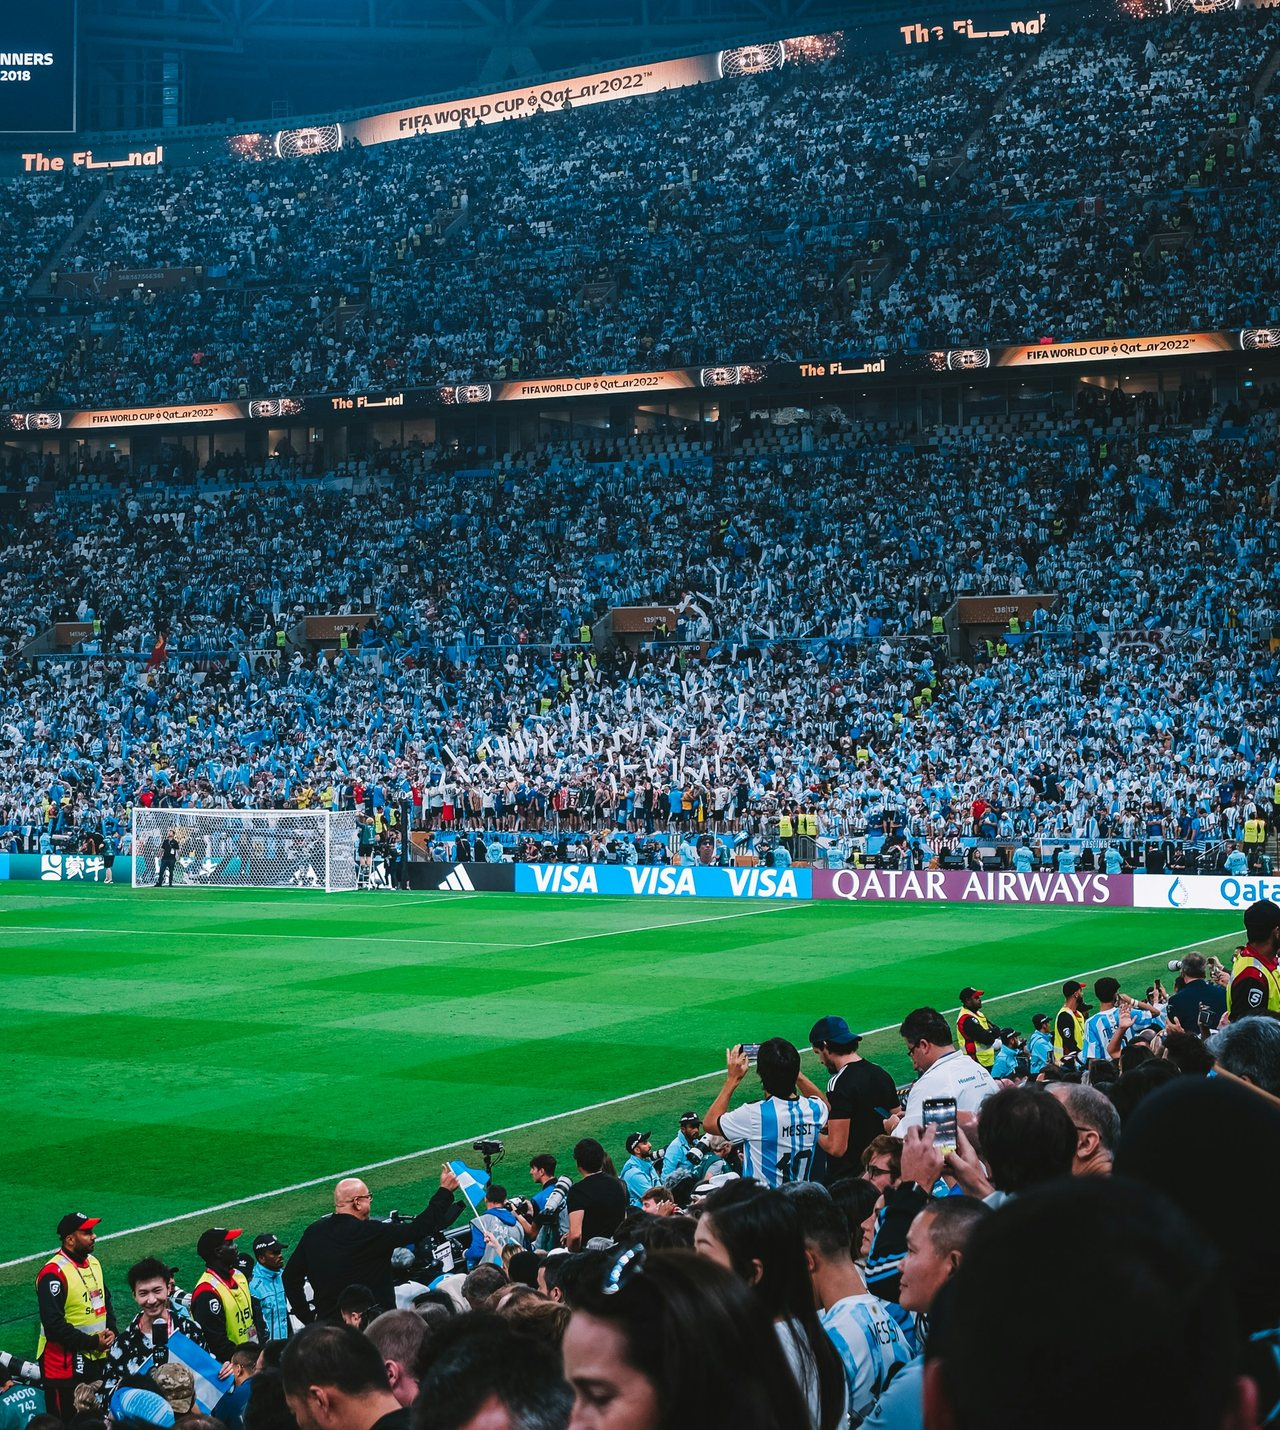
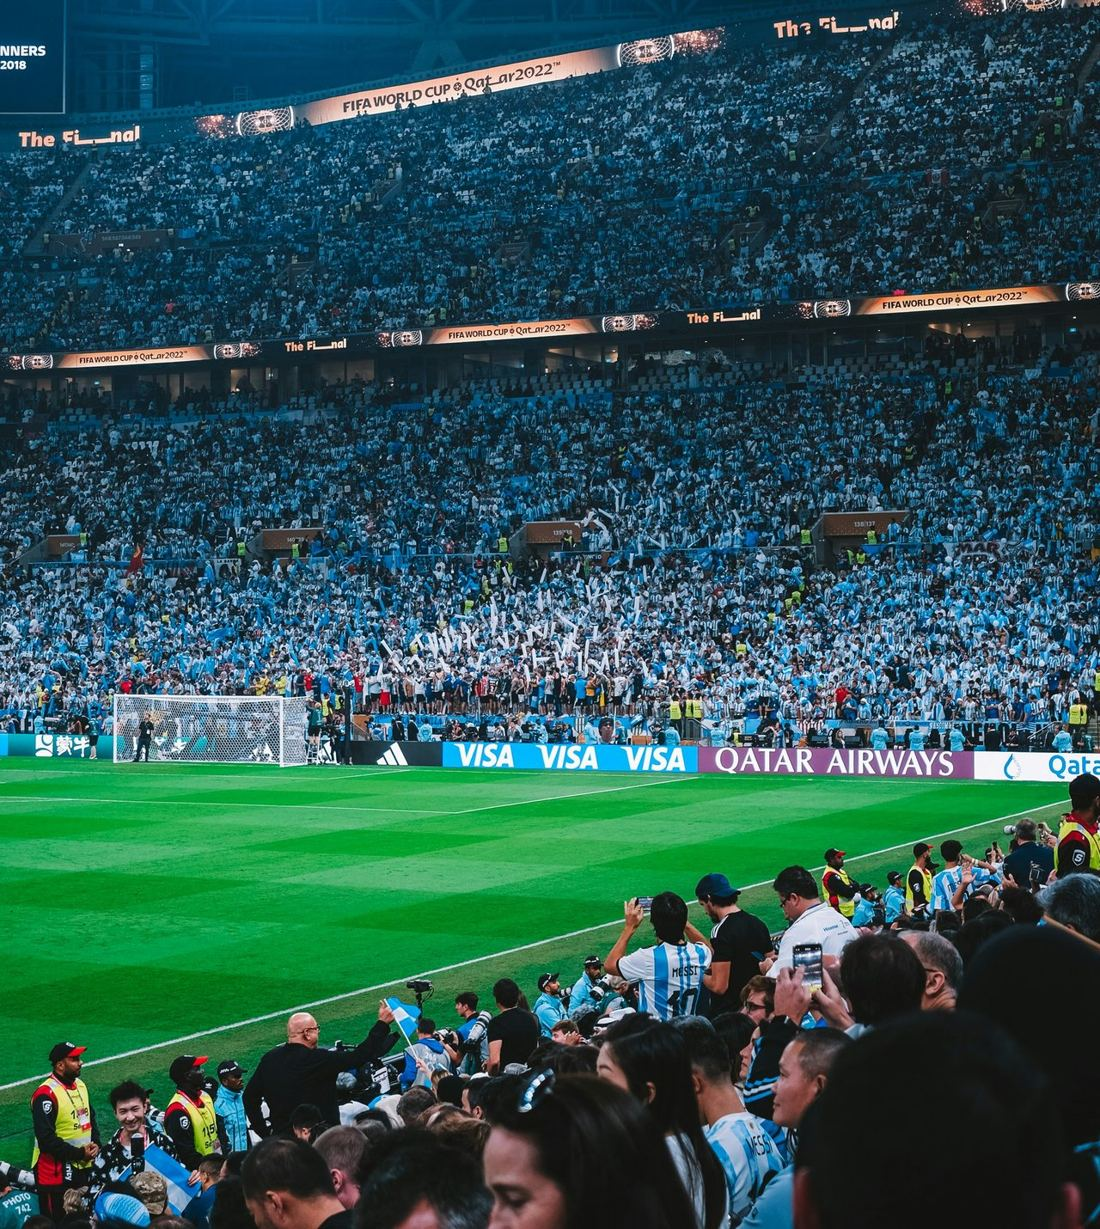
Photos load reliably: stored with the app for offline use, failed loads retry; smaller home photo

diff --git a/web/src/lib/personal.ts b/web/src/lib/personal.ts
@@ -1,21 +1,50 @@
 // Image slots: the user's own uploaded photo wins; otherwise the build's folder (licensed demo photos, or Peter's
 // private /public/personal in local builds). Every use must work without either: the hook returns null then.
+// A failed load is retried (bad signal at the field, app waking up) instead of hiding the photo for the session.
 import { useEffect, useState } from 'react'
 import { IMAGE_DIR } from './demo'
 import { usePhotos, type Slot } from './photos'
 
-const known = new Map<string, boolean>()
+const loaded = new Set<string>()
+const inflight = new Map<string, Promise<boolean>>()
+const RETRY_MS = [1500, 5000, 15000]
+
+function probe(src: string): Promise<boolean> {
+  if (loaded.has(src)) return Promise.resolve(true)
+  let p = inflight.get(src)
+  if (!p) {
+    p = new Promise<boolean>((res) => {
+      const img = new Image()
+      img.onload = () => { loaded.add(src); res(true) }
+      img.onerror = () => res(false)
+      img.src = src
+    }).finally(() => inflight.delete(src))
+    inflight.set(src, p)
+  }
+  return p
+}
 
 export function usePersonalImage(name: string): string | null {
   const own = usePhotos()[name.replace(/\.jpg$/, '') as Slot]
   const src = `${import.meta.env.BASE_URL}${IMAGE_DIR}/${name}`
-  const [ok, setOk] = useState(known.get(src) ?? false)
+  const [ok, setOk] = useState(() => loaded.has(src))
   useEffect(() => {
-    if (known.has(src)) { setOk(known.get(src)!); return }
-    const img = new Image()
-    img.onload = () => { known.set(src, true); setOk(true) }
-    img.onerror = () => { known.set(src, false) }
-    img.src = src
+    if (loaded.has(src)) { setOk(true); return }
+    let alive = true
+    let timer: ReturnType<typeof setTimeout> | undefined
+    const attempt = (n: number) => {
+      void probe(src).then((good) => {
+        if (!alive) return
+        if (good) setOk(true)
+        else if (n < RETRY_MS.length) timer = setTimeout(() => attempt(n + 1), RETRY_MS[n])
+      })
+    }
+    attempt(0)
+    // coming back to the app or back online: try again straight away
+    const again = () => { if (document.visibilityState === 'visible' && !loaded.has(src)) attempt(RETRY_MS.length) }
+    document.addEventListener('visibilitychange', again)
+    window.addEventListener('online', again)
+    return () => { alive = false; clearTimeout(timer); document.removeEventListener('visibilitychange', again); window.removeEventListener('online', again) }
   }, [src])
   return own ?? (ok ? src : null)
 }

diff --git a/web/src/lib/personal.test.tsx b/web/src/lib/personal.test.tsx
@@ -1,0 +1,26 @@
+import { act, render, screen } from '@testing-library/react'
+import { afterEach, expect, test, vi } from 'vitest'
+import { usePersonalImage } from './personal'
+
+afterEach(() => { vi.useRealTimers(); vi.unstubAllGlobals() })
+
+function Pic({ name }: { name: string }) {
+  const src = usePersonalImage(name)
+  return <span data-testid="src">{src ?? 'none'}</span>
+}
+
+test('a photo that fails to load (bad signal) is retried and then shown', async () => {
+  vi.useFakeTimers()
+  let calls = 0
+  vi.stubGlobal('Image', class {
+    onload: (() => void) | null = null
+    onerror: (() => void) | null = null
+    set src(_v: string) { calls++; const fail = calls === 1; setTimeout(() => (fail ? this.onerror?.() : this.onload?.()), 0) }
+  })
+  render(<Pic name="retry-test.jpg" />)
+  await act(async () => { await vi.advanceTimersByTimeAsync(10) })
+  expect(screen.getByTestId('src').textContent).toBe('none') // first try failed
+  await act(async () => { await vi.advanceTimersByTimeAsync(1600) })
+  expect(screen.getByTestId('src').textContent).toMatch(/retry-test\.jpg$/)
+  expect(calls).toBe(2)
+})

diff --git a/web/vite.config.ts b/web/vite.config.ts
@@ -29,7 +29,7 @@ export default defineConfig({
         ],
       },
       // never cache the API or private photos in the offline cache
-      workbox: { globPatterns: ['**/*.{js,css,html,svg,png,woff2}'], globIgnores: ['personal/**'], navigateFallbackDenylist: [/^\/api\//, /^\/personal\//] },
+      workbox: { globPatterns: ['**/*.{js,css,html,svg,png,jpg,woff2}'], globIgnores: ['personal/**'], navigateFallbackDenylist: [/^\/api\//, /^\/personal\//] },
     }),
   ],
   server: { host: '0.0.0.0', proxy: { '/api': 'http://localhost:8788' } },
